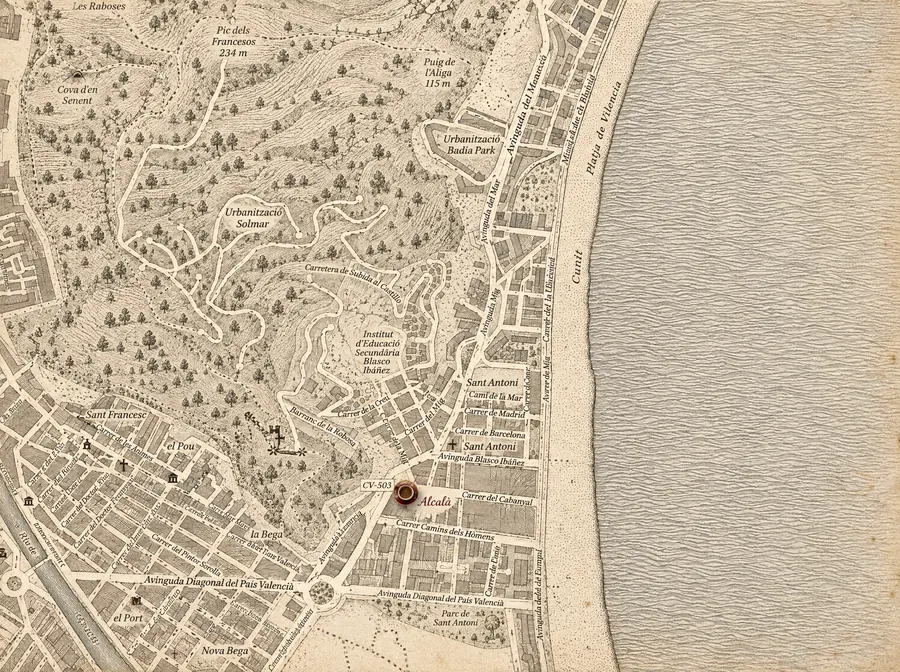
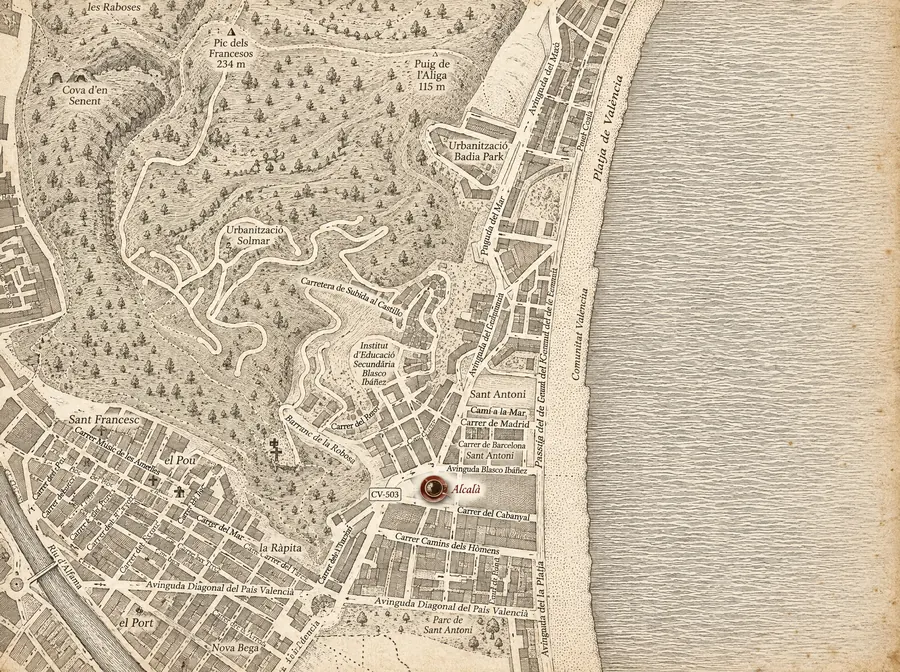
Mapa con la ubicación correcta de la cafetería (Carrer de Ferrer Cabrera, 3)
Punto confirmado por el cliente; coordenadas en los datos estructurados, enlaces de cómo
llegar por dirección postal y mapa de 1900 regenerado con la taza en el sitio.

diff --git a/site/index.html b/site/index.html
@@ -20,7 +20,7 @@
 <link rel="preload" href="lib/fonts/manrope-latin.woff2" as="font" type="font/woff2" crossorigin>
 <link rel="stylesheet" href="lib/fonts/fuentes.css">
 <link rel="stylesheet" href="css/base.css?v=6">
-<link rel="stylesheet" href="css/portada.css?v=3">
+<link rel="stylesheet" href="css/portada.css?v=4">
 <link rel="preload" href="media/logo.svg" as="image">
 <script type="application/ld+json">
 {"@context":"https://schema.org","@graph":[
@@ -28,7 +28,7 @@
  {"@type":"CafeOrCoffeeShop","@id":"https://alcalacullera.com/#local","name":"Alcalà Cafetería · Baristas","url":"https://alcalacullera.com/",
   "image":"https://alcalacullera.com/media/fotos/interior.webp","servesCuisine":["Café de especialidad","Desayunos","Brunch","Mediterránea"],
   "address":{"@type":"PostalAddress","streetAddress":"Carrer del Pintor Ferrer Cabrera, 3","postalCode":"46400","addressLocality":"Cullera","addressRegion":"València","addressCountry":"ES"},
-  "geo":{"@type":"GeoCoordinates","latitude":39.16436,"longitude":-0.24564},
+  "geo":{"@type":"GeoCoordinates","latitude":39.16475,"longitude":-0.24512},
   "telephone":"+34961725098","email":"cafeteriaalcala@hotmail.es","foundingDate":"1987-06-19",
   "sameAs":["https://instagram.com/cafeteriaalcala","https://www.facebook.com/cafeteria.alcala/"],
   "hasMenu":"https://alcalacullera.com/carta/",
@@ -189,12 +189,12 @@
             <div class="visita__acciones">
               <a class="btn btn--lleno btn--ico" href="tel:+34961725098"><svg viewBox="0 0 24 24"><path d="M22 16.9v3a2 2 0 0 1-2.2 2 19.8 19.8 0 0 1-8.6-3.1 19.5 19.5 0 0 1-6-6A19.8 19.8 0 0 1 2.1 4.2 2 2 0 0 1 4.1 2h3a2 2 0 0 1 2 1.7c.1.9.4 1.8.7 2.7a2 2 0 0 1-.5 2.1L8 9.8a16 16 0 0 0 6 6l1.3-1.3a2 2 0 0 1 2.1-.4c.9.3 1.8.6 2.7.7a2 2 0 0 1 1.9 2.1z"/></svg>961 72 50 98</a>
               <a class="btn btn--ico" href="mailto:cafeteriaalcala@hotmail.es"><svg viewBox="0 0 24 24"><rect x="3" y="5" width="18" height="14" rx="2"/><path d="M3 7l9 6 9-6"/></svg>Email</a>
-              <a class="btn btn--ico" href="https://www.google.com/maps/dir/?api=1&destination=39.16436,-0.24564" target="_blank" rel="noopener"><svg viewBox="0 0 24 24"><path d="M12 22s7-6.3 7-12a7 7 0 1 0-14 0c0 5.7 7 12 7 12z"/><circle cx="12" cy="10" r="2.5"/></svg>Cómo llegar</a>
+              <a class="btn btn--ico" href="https://www.google.com/maps/dir/?api=1&destination=Cafeter%C3%ADa+Alcal%C3%A1,+C.+del+Pintor+Ferrer+Cabrera,+3,+46400+Cullera" target="_blank" rel="noopener"><svg viewBox="0 0 24 24"><path d="M12 22s7-6.3 7-12a7 7 0 1 0-14 0c0 5.7 7 12 7 12z"/><circle cx="12" cy="10" r="2.5"/></svg>Cómo llegar</a>
             </div>
           </div>
         </div>
         <figure class="foto visita__mapa rv" style="--d:.15s">
-          <a class="mapa" href="https://www.google.com/maps/dir/?api=1&destination=39.16436,-0.24564" target="_blank" rel="noopener" aria-label="Mapa clásico de Cullera con la cafetería marcada; abre cómo llegar en Google Maps">
+          <a class="mapa" href="https://www.google.com/maps/dir/?api=1&destination=Cafeter%C3%ADa+Alcal%C3%A1,+C.+del+Pintor+Ferrer+Cabrera,+3,+46400+Cullera" target="_blank" rel="noopener" aria-label="Mapa clásico de Cullera con la cafetería marcada; abre cómo llegar en Google Maps">
             <picture>
               <source media="(max-width:640px)" srcset="media/fotos/mapa-clasico-movil.webp">
               <img src="media/fotos/mapa-clasico.webp" alt="Plano de Cullera de estilo 1900 en blanco y negro: la taza de café en color marca Alcalà, en el barrio de San Antonio junto a la playa" width="1400" height="1045" loading="lazy">
@@ -270,7 +270,7 @@
 <!-- botones flotantes de móvil -->
 <div class="flotante" aria-label="Contacto rápido">
   <a href="tel:+34961725098" aria-label="Llamar al 961 72 50 98"><svg viewBox="0 0 24 24"><path d="M22 16.9v3a2 2 0 0 1-2.2 2 19.8 19.8 0 0 1-8.6-3.1 19.5 19.5 0 0 1-6-6A19.8 19.8 0 0 1 2.1 4.2 2 2 0 0 1 4.1 2h3a2 2 0 0 1 2 1.7c.1.9.4 1.8.7 2.7a2 2 0 0 1-.5 2.1L8 9.8a16 16 0 0 0 6 6l1.3-1.3a2 2 0 0 1 2.1-.4c.9.3 1.8.6 2.7.7a2 2 0 0 1 1.9 2.1z"/></svg></a>
-  <a href="https://www.google.com/maps/dir/?api=1&destination=39.16436,-0.24564" target="_blank" rel="noopener" aria-label="Cómo llegar"><svg viewBox="0 0 24 24"><path d="M12 22s7-6.3 7-12a7 7 0 1 0-14 0c0 5.7 7 12 7 12z"/><circle cx="12" cy="10" r="2.5"/></svg></a>
+  <a href="https://www.google.com/maps/dir/?api=1&destination=Cafeter%C3%ADa+Alcal%C3%A1,+C.+del+Pintor+Ferrer+Cabrera,+3,+46400+Cullera" target="_blank" rel="noopener" aria-label="Cómo llegar"><svg viewBox="0 0 24 24"><path d="M12 22s7-6.3 7-12a7 7 0 1 0-14 0c0 5.7 7 12 7 12z"/><circle cx="12" cy="10" r="2.5"/></svg></a>
 </div>
 
 <script>

diff --git a/site/carta/index.html b/site/carta/index.html
@@ -94,7 +94,7 @@
         <a class="pie__logo" href="../" aria-label="Alcalà, portada"><img src="../media/logo-blanco.webp" alt="Alcalà" width="600" height="600" loading="lazy"></a>
         <p>Carrer del Pintor Ferrer Cabrera, 3 · 46400 Cullera. Todos los días de 9:00 a 23:00, jueves cerrado.</p>
       </div>
-      <nav aria-label="Visítanos"><h4>Visítanos</h4><a href="tel:+34961725098">961 72 50 98</a><a href="mailto:cafeteriaalcala@hotmail.es">Email</a><a href="https://www.google.com/maps/dir/?api=1&destination=39.16436,-0.24564" target="_blank" rel="noopener">Cómo llegar</a></nav>
+      <nav aria-label="Visítanos"><h4>Visítanos</h4><a href="tel:+34961725098">961 72 50 98</a><a href="mailto:cafeteriaalcala@hotmail.es">Email</a><a href="https://www.google.com/maps/dir/?api=1&destination=Cafeter%C3%ADa+Alcal%C3%A1,+C.+del+Pintor+Ferrer+Cabrera,+3,+46400+Cullera" target="_blank" rel="noopener">Cómo llegar</a></nav>
       <nav aria-label="Síguenos"><h4>Síguenos</h4><a href="https://instagram.com/cafeteriaalcala" target="_blank" rel="noopener">Instagram</a><a href="https://www.tiktok.com/@cafeteriaalcala" target="_blank" rel="noopener">TikTok</a><a href="https://www.facebook.com/cafeteria.alcala/" target="_blank" rel="noopener">Facebook</a></nav>
       <nav aria-label="Legal"><h4>Legal</h4><a href="../aviso-legal/">Aviso legal</a><a href="../privacidad/">Privacidad</a><a href="../cookies/">Cookies</a></nav>
     </div>
@@ -116,7 +116,7 @@
 
 <div class="flotante" aria-label="Contacto rápido">
   <a href="tel:+34961725098" aria-label="Llamar al 961 72 50 98"><svg viewBox="0 0 24 24"><path d="M22 16.9v3a2 2 0 0 1-2.2 2 19.8 19.8 0 0 1-8.6-3.1 19.5 19.5 0 0 1-6-6A19.8 19.8 0 0 1 2.1 4.2 2 2 0 0 1 4.1 2h3a2 2 0 0 1 2 1.7c.1.9.4 1.8.7 2.7a2 2 0 0 1-.5 2.1L8 9.8a16 16 0 0 0 6 6l1.3-1.3a2 2 0 0 1 2.1-.4c.9.3 1.8.6 2.7.7a2 2 0 0 1 1.9 2.1z"/></svg></a>
-  <a href="https://www.google.com/maps/dir/?api=1&destination=39.16436,-0.24564" target="_blank" rel="noopener" aria-label="Cómo llegar"><svg viewBox="0 0 24 24"><path d="M12 22s7-6.3 7-12a7 7 0 1 0-14 0c0 5.7 7 12 7 12z"/><circle cx="12" cy="10" r="2.5"/></svg></a>
+  <a href="https://www.google.com/maps/dir/?api=1&destination=Cafeter%C3%ADa+Alcal%C3%A1,+C.+del+Pintor+Ferrer+Cabrera,+3,+46400+Cullera" target="_blank" rel="noopener" aria-label="Cómo llegar"><svg viewBox="0 0 24 24"><path d="M12 22s7-6.3 7-12a7 7 0 1 0-14 0c0 5.7 7 12 7 12z"/><circle cx="12" cy="10" r="2.5"/></svg></a>
 </div>
 
 <script src="../js/carta-datos.js?v=1"></script>

diff --git a/site/css/portada.css b/site/css/portada.css
@@ -56,9 +56,9 @@
 .visita__nota{ margin-top:.8rem; font-size:.92rem; opacity:.8 }
 /* mapa clásico (ilustración sobre cartografía real); la mancha de café es el local */
 .mapa{ position:absolute; inset:0; display:block; overflow:hidden; border-radius:inherit }
-.mapa img{ width:100%; height:100%; object-fit:cover; transform-origin:45.6% 73.7%; transition:transform 1.2s var(--lento); filter:none }
+.mapa img{ width:100%; height:100%; object-fit:cover; transform-origin:47.5% 71.4%; transition:transform 1.2s var(--lento); filter:none }
 .mapa:hover img{ transform:scale(1.12) }
-.mapa__halo{ position:absolute; left:45.6%; top:73.7%; width:9%; aspect-ratio:1; transform:translate(-50%,-50%); border-radius:50%; box-shadow:0 0 0 2px rgba(107,26,43,.55); animation:halo 2.6s ease-out infinite; pointer-events:none }
+.mapa__halo{ position:absolute; left:47.5%; top:71.4%; width:9%; aspect-ratio:1; transform:translate(-50%,-50%); border-radius:50%; box-shadow:0 0 0 2px rgba(107,26,43,.55); animation:halo 2.6s ease-out infinite; pointer-events:none }
 @keyframes halo{ 0%{ transform:translate(-50%,-50%) scale(.6); opacity:.9 } 100%{ transform:translate(-50%,-50%) scale(1.6); opacity:0 } }
 .mapa__nota{ position:absolute; right:.8rem; bottom:.8rem; padding:.35rem .7rem; border-radius:999px; background:rgba(74,15,29,.85); color:var(--hueso); font-family:var(--ff-ui); font-weight:700; text-transform:uppercase; letter-spacing:.1em; font-size:.66rem; opacity:0; transform:translateY(4px); transition:opacity .3s, transform .4s var(--lento) }
 .mapa:hover .mapa__nota, .mapa:focus-visible .mapa__nota{ opacity:1; transform:none }

diff --git a/arquitectura.md b/arquitectura.md
@@ -125,6 +125,6 @@ Vídeo del hero: `hero-loop.mp4` (7,4 MB) recomprimido con el ffmpeg de `imageio
 ## 10. Estado del panel y del mapa (29-10-2026, tarde)
 
 - **Panel** en `site/administracion/` (`js/administracion.js`): funcional sin servidor. Guarda en `localStorage` (clave `alcala.datos`) categorías, platos (con alérgenos, etiquetas, dos precios, visible, orden y traducciones pendientes), horario, contacto y clips. La carta pública (`js/carta.js`) lee esos datos si existen. Sin login todavía. Cuando haya servidor, las mismas acciones pasarán a llamar a la API y el «✦ traducido automáticamente» lo hará DeepL de verdad.
-- **Mapa**: ya no es Leaflet. Es una ilustración generada con Higgsfield (GPT Image 2.5) a partir de teselas reales de la zona (`imagenes/mapa-1900.png`, alternativa en `mapa-1900-alt.png`): plano de 1900 en blanco roto y negro con la taza de café en color como marcador. El enlace del mapa abre «cómo llegar» en Google Maps. La posición del local en la imagen es 45,6 % / 73,7 % (variable en `portada.css`).
+- **Mapa**: ya no es Leaflet. Es una ilustración generada con Higgsfield (GPT Image 2.5) a partir de teselas reales de la zona (`imagenes/mapa-1900.png`, alternativa en `mapa-1900-alt.png`): plano de 1900 en blanco roto y negro con la taza de café en color como marcador. El enlace del mapa abre «cómo llegar» en Google Maps. Coordenadas del local (confirmadas por el cliente sobre el Carrer de Ferrer Cabrera, entre su extremo noreste y la mitad): 39.16475, -0.24512. En la imagen del mapa el local cae en 47,5 % / 71,4 % (`portada.css`). Los enlaces de «cómo llegar» usan la dirección postal, no coordenadas.
 - **Telón**: logo por piezas (`media/logo-partes.svg`, generado desde `logo.svg`): letras una a una, raya, subtítulo y marco con zoom, 2,5 s, sólo la primera vez por sesión.
 - **Hero**: logo liso en SVG como máscara CSS; Three.js queda en `site/lib/three/` sin usar, por si se recupera el 3D (`js/hero-3d.js`).
